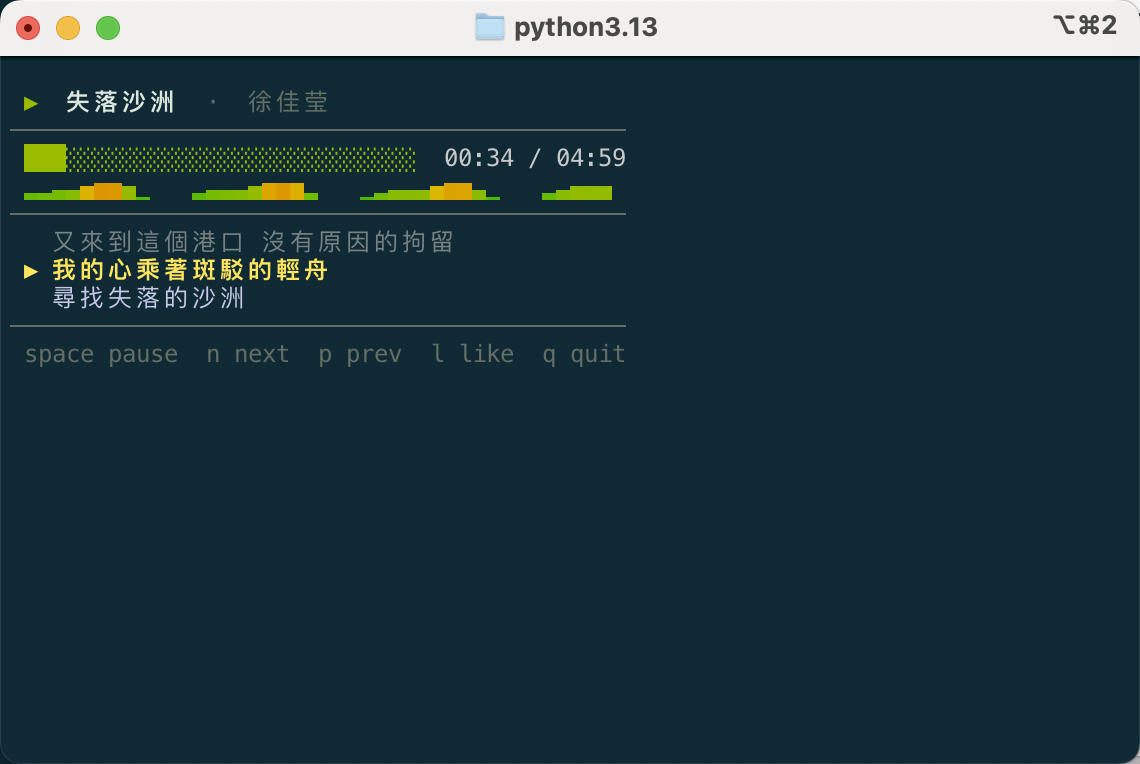
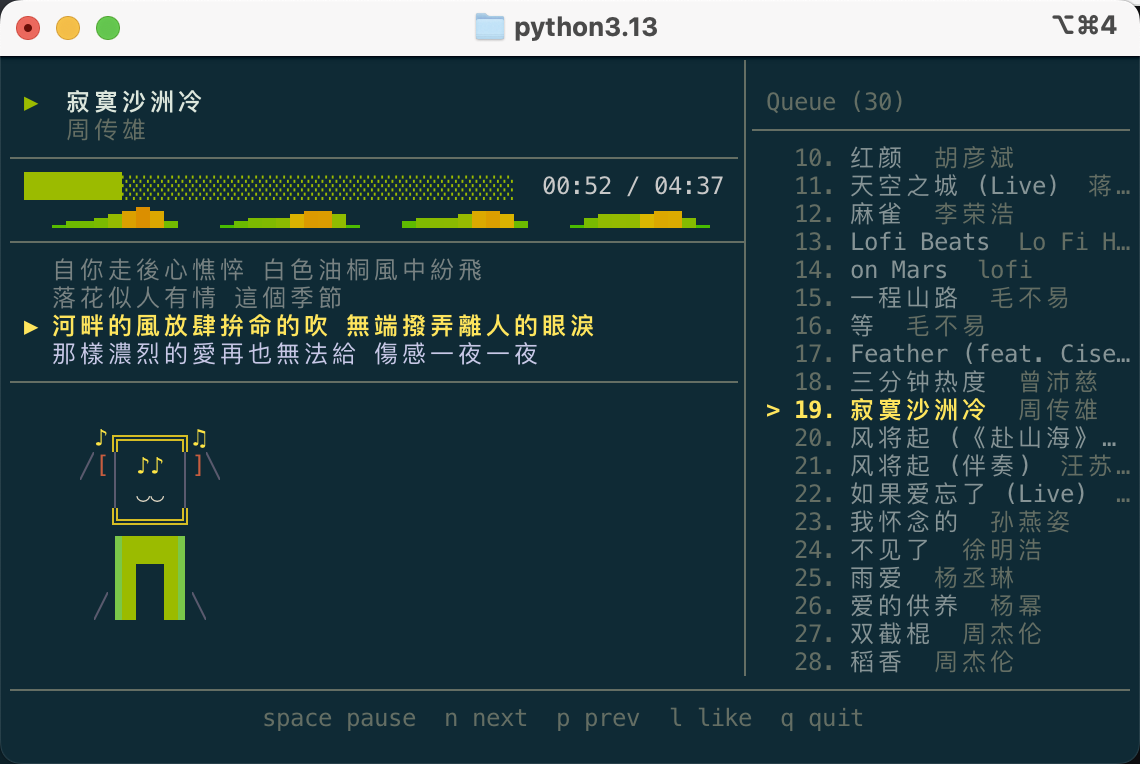
feat: animate pixel person with walk/jump, add bottom separator in watch mode
- Pixel person now walks horizontally (dual incommensurable sine waves) and
  jumps pseudo-randomly (golden-ratio hash per 4-second window) with frame
  selection matching direction and airborne state
- Full-width dim separator line above hint bar visually closes the panel area
- Re-read terminal size after alt screen entry to fix initial layout on launch
- karaoke: defer lyrics_key lock while lyrics_pending to avoid missing download

diff --git a/coding_with_beat/watch.py b/coding_with_beat/watch.py
@@ -16,6 +16,7 @@ Layout (adaptive to terminal size):
 from __future__ import annotations
 
 import json
+import math
 import shutil
 import signal
 import sys
@@ -38,6 +39,8 @@ from .ui.progress import render_progress, render_spectrum_color
 
 FETCH_EVERY = 2.0
 RENDER_EVERY = 0.05
+JUMP_ROWS = 3   # max rows the sprite can lift above ground
+_SPRITE_W = 10  # visible width of pixel-person frame
 
 _ACCENT = (155, 188, 15)
 _DIM = "\x1b[38;2;100;110;100m"
@@ -135,17 +138,18 @@ def _render_player_top(snap: dict, width: int, height: int, t: float) -> list[st
 
 
 def _render_lyrics_bottom(
-    lyrics_text: str, pos: float, dur: float, width: int, height: int, playing: bool
+    lyrics_text: str, pos: float, dur: float, width: int, height: int, playing: bool, t: float = 0.0
 ) -> list[str]:
-    """Bottom-left panel: lyrics (top) + 7-line pixel person (bottom-left corner)."""
-    sprite_lines = dj.dancing_sprite("groove" if playing else "neutral").split("\n")
-    sprite_h = len(sprite_lines)
+    """Bottom-left panel: lyrics (top) + animated pixel person walking/jumping below."""
+    mood = "groove" if playing else "neutral"
+    sprite_h = 7  # pixel-person frames are always 7 lines
+    stage_h = sprite_h + JUMP_ROWS  # rows reserved for sprite + jump headroom
 
-    # If the panel is too short to fit sprite + sep + 1 lyric, hide sprite.
-    if height <= sprite_h + 1:
-        sprite_lines = []
-        sprite_h = 0
-    lyrics_h = max(1, height - sprite_h - (1 if sprite_h else 0))  # 1 = separator
+    show_sprite = height > stage_h + 1  # need at least 1 lyric row + separator
+    if not show_sprite:
+        stage_h = 0
+
+    lyrics_h = max(1, height - stage_h - (1 if show_sprite else 0))
 
     if lyrics_text:
         raw = render_lyrics_window(lyrics_text, pos, dur, window=lyrics_h, width=width - 1)
@@ -157,7 +161,42 @@ def _render_lyrics_bottom(
         content.append("")
     content = content[:lyrics_h]
 
-    rows = content + ([_sep(width)] + sprite_lines if sprite_h else [])
+    if show_sprite:
+        # ── jump: pseudo-random per 4-second window via golden-ratio hash ──
+        bucket = int(t / 4.0)
+        will_jump = (math.sin(bucket * 1.6180339) + 1.0) / 2.0 > 0.4
+        if will_jump:
+            t_local = (t % 4.0) / 4.0
+            y_lift = max(0.0, math.sin(t_local * math.pi))
+            y = int(y_lift * JUMP_ROWS)
+        else:
+            y = 0
+
+        # ── horizontal walk: two incommensurable sine waves ──
+        max_x = max(0, width - _SPRITE_W)
+        x_frac = 0.5 + 0.4 * math.sin(t * 0.31) + 0.1 * math.sin(t * 0.73)
+        x_frac = max(0.0, min(1.0, x_frac))
+        x_offset = int(x_frac * max_x)
+
+        # ── frame: arms-up when airborne, shimmy direction otherwise ──
+        if will_jump and y > 0:
+            frame_idx = 1
+        else:
+            frame_idx = 2 if math.sin(t * 0.31) < 0 else 0
+
+        sprite_lines = dj.pixel_person_frame(mood, frame_idx).split("\n")
+
+        # Place sprite in vertical stage (y=0 → on ground; y=JUMP_ROWS → airborne)
+        top_blank = JUMP_ROWS - y
+        bottom_blank = y
+        stage_rows = [""] * top_blank + sprite_lines + [""] * bottom_blank
+
+        # Apply horizontal offset
+        positioned = [_pad(" " * x_offset + line, width) for line in stage_rows]
+        rows = content + [_sep(width)] + positioned
+    else:
+        rows = content
+
     while len(rows) < height:
         rows.append("")
     return [_pad(r, width) for r in rows[:height]]
@@ -242,6 +281,9 @@ def run(width: int = 0) -> int:
     raw = setup_raw_tty()
 
     enter_alt_screen()
+    # Re-read after alt screen is established; the first read may be stale.
+    sz[0] = shutil.get_terminal_size((80, 24))
+    _width[0] = sz[0].columns
 
     def _quit(*_):
         restore_tty(raw)
@@ -313,17 +355,16 @@ def run(width: int = 0) -> int:
                 total_w = _width[0]
                 h = sz[0].lines
                 # usable_h: everything except the very last terminal line.
-                # panels_h:  one row less — the hint bar sits at row usable_h,
-                #            spanning the full terminal width so it never overflows
-                #            into the queue column regardless of terminal size.
+                # sep_h:     full-width ── separator closing the panels.
+                # panels_h:  two rows less — panels end before the separator.
                 usable_h = h - 1
-                panels_h = usable_h - 1
+                sep_h = usable_h - 1
+                panels_h = sep_h - 1
                 left_w = max(20, int(total_w * 0.65))
                 right_w = max(10, total_w - left_w - 1)  # 1 col for │
 
                 # Player section height = exactly its content rows — no blank
                 # padding before the ────────┤ junction.
-                _sprite_h = len(dj.dancing_sprite("groove").split("\n"))  # 7
                 _player_rows = 5 + (1 if snap.get("artist") else 0)
                 top_h = _player_rows
                 bot_h = max(3, panels_h - top_h - 1)
@@ -333,7 +374,7 @@ def run(width: int = 0) -> int:
                 playing = snap.get("playing", False)
 
                 player_lines = _render_player_top(snap, left_w, top_h, now)
-                lyrics_lines = _render_lyrics_bottom(lyrics_text, pos, dur, left_w, bot_h, playing)
+                lyrics_lines = _render_lyrics_bottom(lyrics_text, pos, dur, left_w, bot_h, playing, now)
                 queue_lines = _render_queue_lines(queue, cur_idx, right_w, panels_h)
                 frame = _compose3(player_lines, lyrics_lines, queue_lines, left_w, panels_h)
 
@@ -346,6 +387,7 @@ def run(width: int = 0) -> int:
                 out = []
                 for i, line in enumerate(lines[:panels_h]):
                     out.append(f"\x1b[{i + 1};1H{line}\x1b[K")
+                out.append(f"\x1b[{sep_h};1H{_DIM}{'─' * total_w}{_RESET}\x1b[K")
                 out.append(f"\x1b[{usable_h};1H{_pad(hint_line, total_w)}\x1b[K")
                 out.append(f"\x1b[{usable_h + 1};1H\x1b[J")
                 sys.stdout.write("".join(out))

diff --git a/coding_with_beat/karaoke.py b/coding_with_beat/karaoke.py
@@ -161,7 +161,11 @@ def run(width: int = 0) -> int:
                         lyrics_key = new.get("lyrics_key", "")
                     elif new.get("lyrics_key") and new["lyrics_key"] != lyrics_key:
                         lyrics_text = ""
-                        lyrics_key = new["lyrics_key"]
+                        # Only lock in the key when lyrics are confirmed unavailable.
+                        # If still pending, keep lyrics_key="" so next fetch re-requests
+                        # with known_key="" and receives the text once download finishes.
+                        if not new.get("lyrics_pending"):
+                            lyrics_key = new["lyrics_key"]
                     snap = new
                     last_fetch = now
                 except MCPClientError: